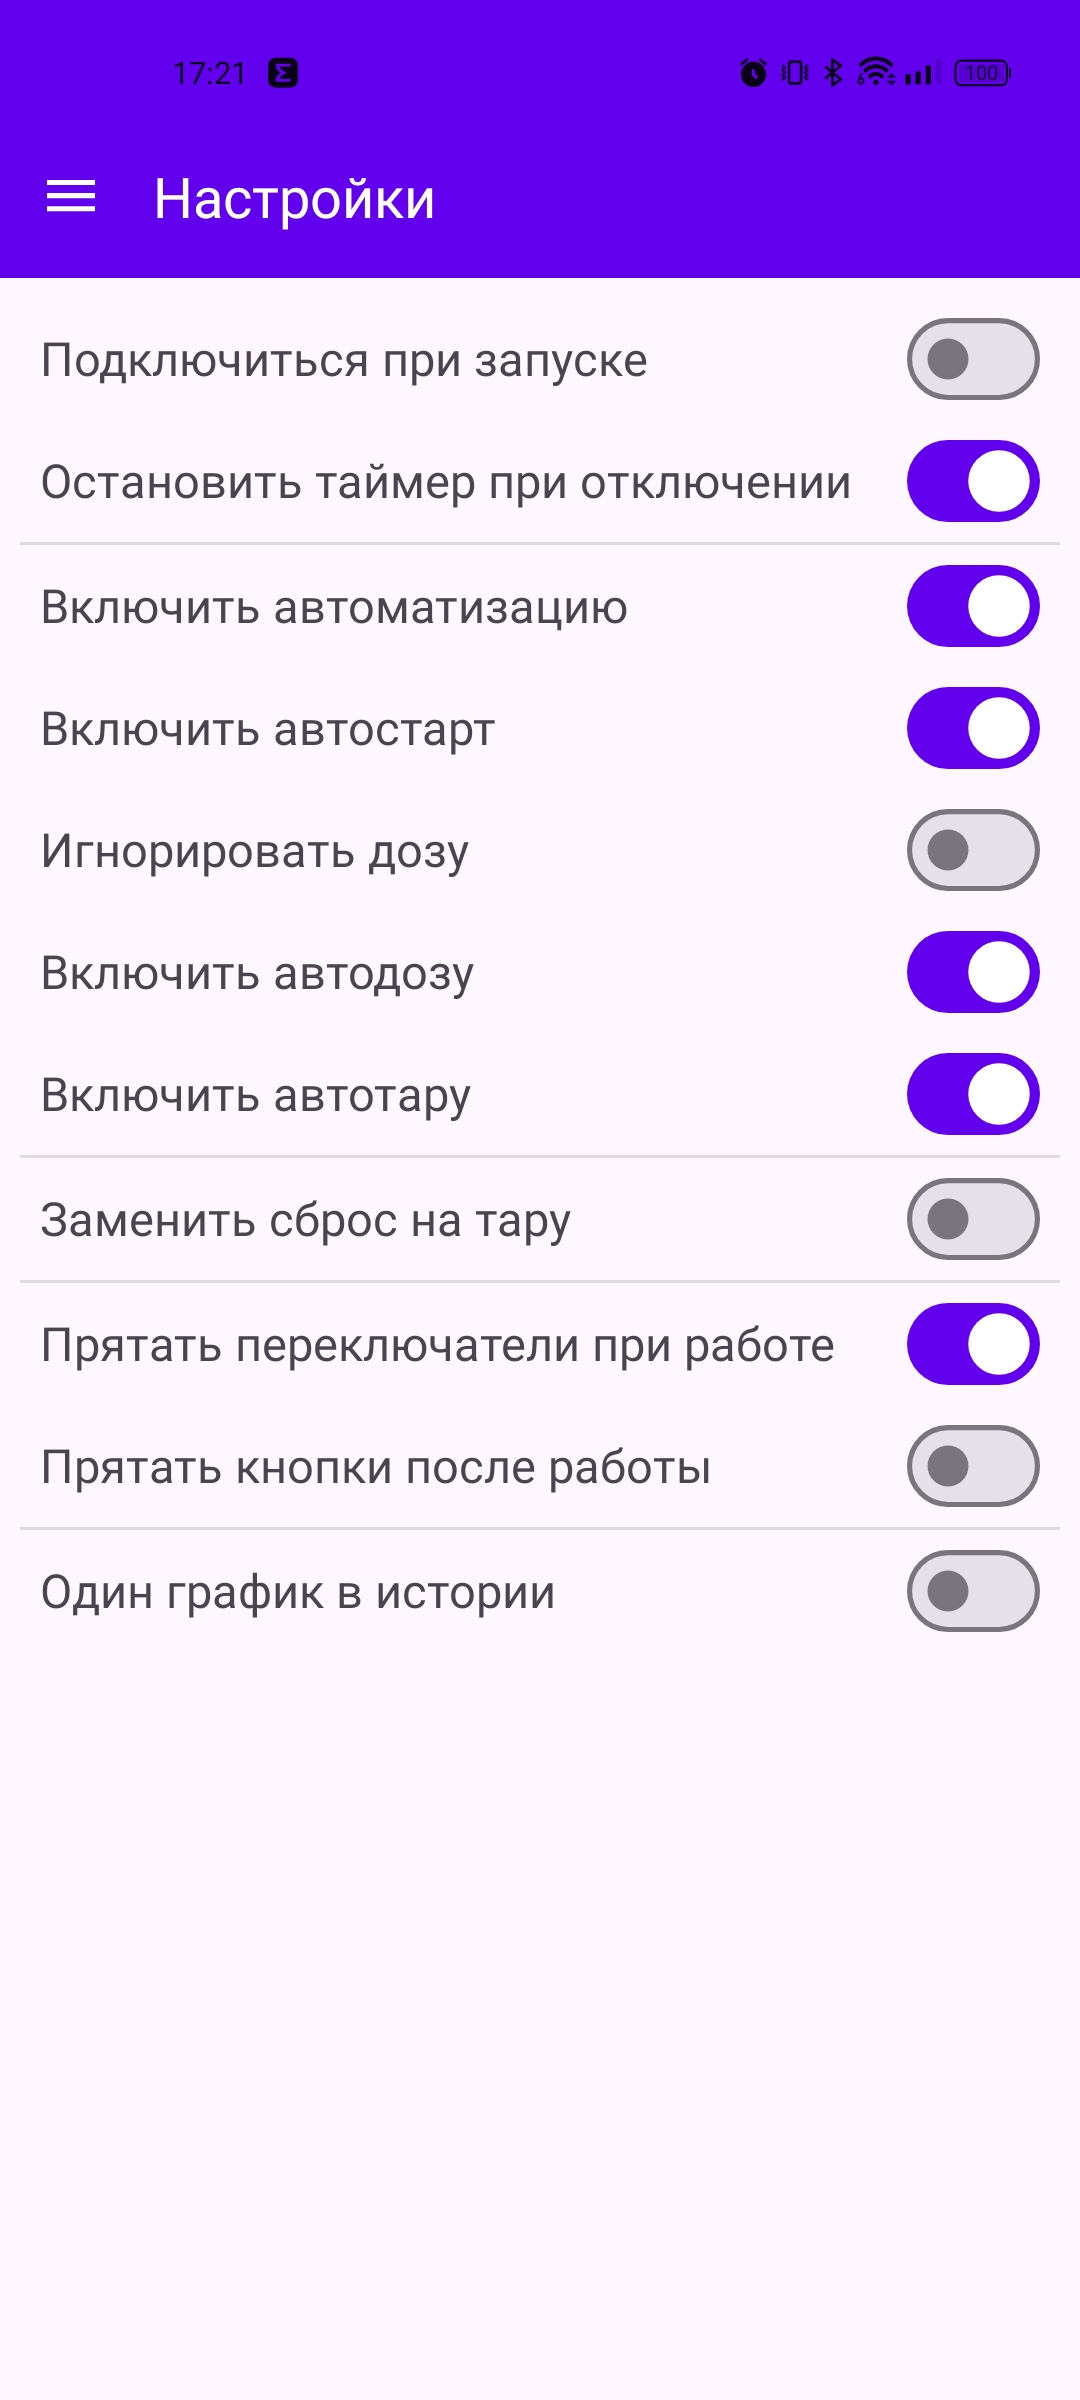
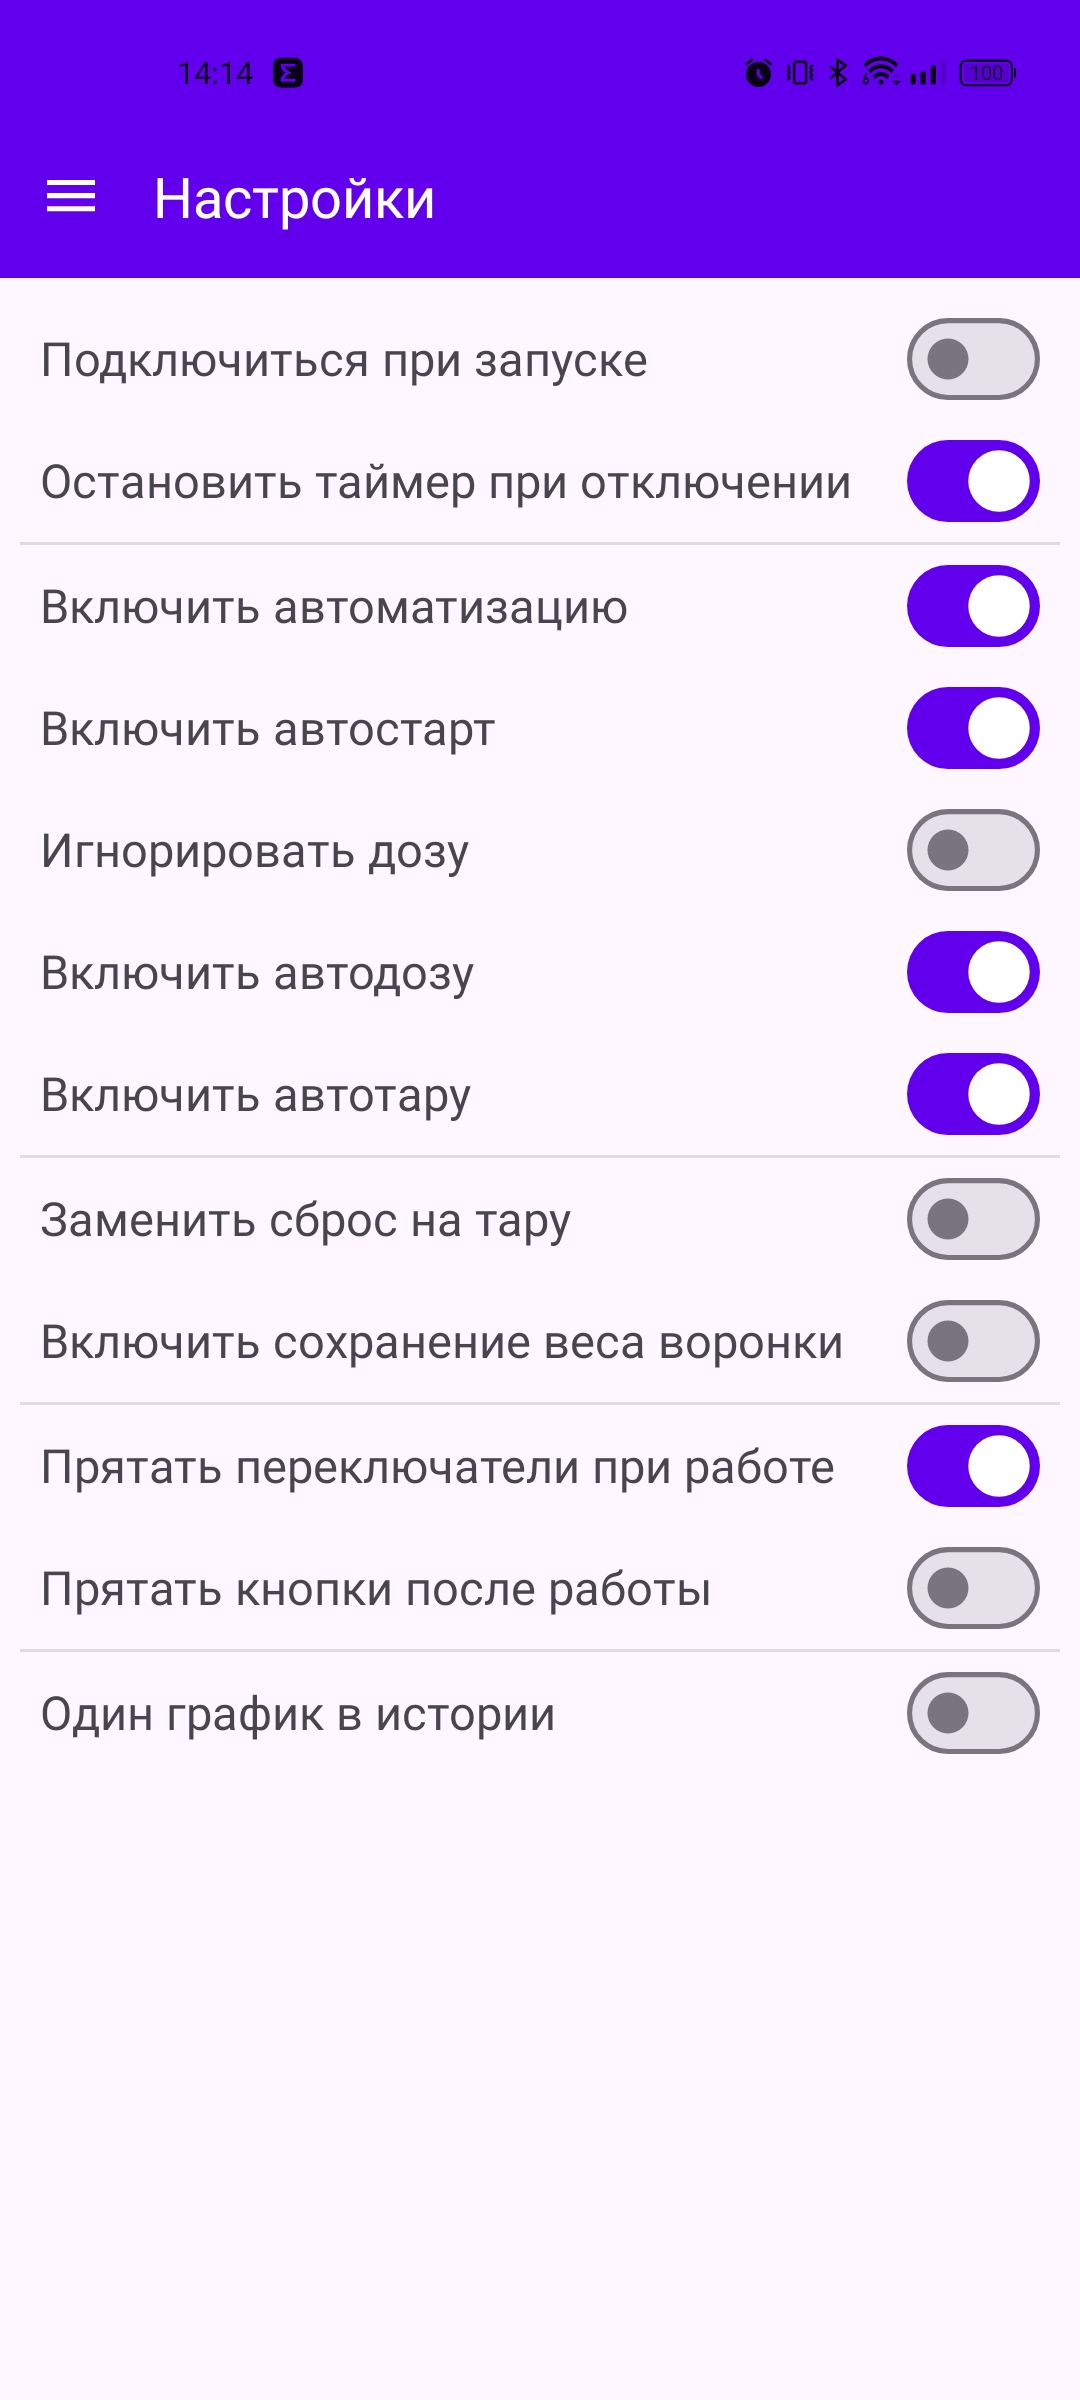
Добавил расчёт чистого веса напитка.

diff --git a/app/src/main/java/com/tomatishe/futulacoffeescale/ui/settings/SettingsFragment.kt b/app/src/main/java/com/tomatishe/futulacoffeescale/ui/settings/SettingsFragment.kt
@@ -17,6 +17,7 @@ import com.tomatishe.futulacoffeescale.coordinators.dataCoordinator.getAutoDose
 import com.tomatishe.futulacoffeescale.coordinators.dataCoordinator.getAutoStart
 import com.tomatishe.futulacoffeescale.coordinators.dataCoordinator.getAutoSwitches
 import com.tomatishe.futulacoffeescale.coordinators.dataCoordinator.getAutoTare
+import com.tomatishe.futulacoffeescale.coordinators.dataCoordinator.getEnableServerWeight
 import com.tomatishe.futulacoffeescale.coordinators.dataCoordinator.getIgnoreDose
 import com.tomatishe.futulacoffeescale.coordinators.dataCoordinator.getOneGraphInHistory
 import com.tomatishe.futulacoffeescale.coordinators.dataCoordinator.getReplaceResetWithTare
@@ -28,6 +29,7 @@ import com.tomatishe.futulacoffeescale.coordinators.dataCoordinator.updateAutoDo
 import com.tomatishe.futulacoffeescale.coordinators.dataCoordinator.updateAutoStart
 import com.tomatishe.futulacoffeescale.coordinators.dataCoordinator.updateAutoSwitches
 import com.tomatishe.futulacoffeescale.coordinators.dataCoordinator.updateAutoTare
+import com.tomatishe.futulacoffeescale.coordinators.dataCoordinator.updateEnableServerWeight
 import com.tomatishe.futulacoffeescale.coordinators.dataCoordinator.updateIgnoreDose
 import com.tomatishe.futulacoffeescale.coordinators.dataCoordinator.updateOneGraphInHistory
 import com.tomatishe.futulacoffeescale.coordinators.dataCoordinator.updateReplaceResetWithTare
@@ -62,6 +64,7 @@ class SettingsFragment : Fragment() {
     private lateinit var stopTimerWhenLostConnectionSwitch: MaterialSwitch
     private lateinit var startSearchAfterLaunchSwitch: MaterialSwitch
     private lateinit var showOneGraphInHistorySwitch: MaterialSwitch
+    private lateinit var enableServerWeightSwitch: MaterialSwitch
 
     private var _binding: FragmentSettingsBinding? = null
 
@@ -80,6 +83,7 @@ class SettingsFragment : Fragment() {
     private var stopTimerWhenLostConnectionChecked = true
     private var startSearchAfterLaunchChecked = false
     private var oneGraphInHistory = false
+    private var enableServerWeightChecked = false
 
     private var isSettingsLoaded = false
         set(value) {
@@ -101,6 +105,7 @@ class SettingsFragment : Fragment() {
                             stopTimerWhenLostConnectionChecked
                         startSearchAfterLaunchSwitch.isChecked = startSearchAfterLaunchChecked
                         showOneGraphInHistorySwitch.isChecked = oneGraphInHistory
+                        enableServerWeightSwitch.isChecked = enableServerWeightChecked
 
                         if (autoStartSettingsSwitch.isChecked) {
                             ignoreDoseLayout.visibility = View.VISIBLE
@@ -144,6 +149,7 @@ class SettingsFragment : Fragment() {
                     DataCoordinator.shared.getStopTimerWhenLostConnection()
                 startSearchAfterLaunchChecked = DataCoordinator.shared.getStartSearchAfterLaunch()
                 oneGraphInHistory = DataCoordinator.shared.getOneGraphInHistory()
+                enableServerWeightChecked = DataCoordinator.shared.getEnableServerWeight()
                 isSettingsLoaded = true
             }
         }
@@ -176,6 +182,7 @@ class SettingsFragment : Fragment() {
         stopTimerWhenLostConnectionSwitch = binding.stopTimerWhenLostConnectionSwitch
         startSearchAfterLaunchSwitch = binding.startSearchAfterLaunchSwitch
         showOneGraphInHistorySwitch = binding.showOneGraphInHistorySwitch
+        enableServerWeightSwitch = binding.enableServerWeightSwitch
 
         autoFuncSettingsSwitch.setOnClickListener {
             DataCoordinator.shared.updateAutoAll(autoFuncSettingsSwitch.isChecked)
@@ -251,6 +258,12 @@ class SettingsFragment : Fragment() {
         showOneGraphInHistorySwitch.setOnClickListener {
             DataCoordinator.shared.updateOneGraphInHistory(
                 showOneGraphInHistorySwitch.isChecked
+            )
+        }
+
+        enableServerWeightSwitch.setOnClickListener {
+            DataCoordinator.shared.updateEnableServerWeight(
+                enableServerWeightSwitch.isChecked
             )
         }
 

diff --git a/app/src/main/java/com/tomatishe/futulacoffeescale/ui/home/HomeFragment.kt b/app/src/main/java/com/tomatishe/futulacoffeescale/ui/home/HomeFragment.kt
@@ -22,6 +22,8 @@ import android.widget.FrameLayout
 import android.widget.TextView
 import androidx.appcompat.app.AlertDialog
 import androidx.constraintlayout.widget.ConstraintLayout
+import androidx.core.view.get
+import androidx.core.view.isVisible
 import androidx.core.view.updateLayoutParams
 import androidx.fragment.app.Fragment
 import androidx.lifecycle.ViewModelProvider
@@ -42,6 +44,7 @@ import com.tomatishe.futulacoffeescale.coordinators.dataCoordinator.getAutoDose
 import com.tomatishe.futulacoffeescale.coordinators.dataCoordinator.getAutoStart
 import com.tomatishe.futulacoffeescale.coordinators.dataCoordinator.getAutoSwitches
 import com.tomatishe.futulacoffeescale.coordinators.dataCoordinator.getAutoTare
+import com.tomatishe.futulacoffeescale.coordinators.dataCoordinator.getEnableServerWeight
 import com.tomatishe.futulacoffeescale.coordinators.dataCoordinator.getIgnoreDose
 import com.tomatishe.futulacoffeescale.coordinators.dataCoordinator.getReplaceResetWithTare
 import com.tomatishe.futulacoffeescale.coordinators.dataCoordinator.getStartSearchAfterLaunch
@@ -161,6 +164,7 @@ class HomeFragment : Fragment() {
     private var weightLogSecond = mutableListOf<Float>()
     private var weightLogGraphData =
         AASeriesElement().name("Weight").data(weightLogSecond.toTypedArray())
+    private var serverWeight: Float = 0.0F
     private var flowRate: Float = 0.0F
         set(value) {
             field = value
@@ -664,6 +668,7 @@ class HomeFragment : Fragment() {
                 startBleScan()
             }
         }
+    private var enableServerWeightChecked = false
 
     private var isSettingsLoaded = false
         set(value) {
@@ -847,10 +852,39 @@ class HomeFragment : Fragment() {
 
     override fun onCreateOptionsMenu(menu: Menu, inflater: MenuInflater) {
         inflater.inflate(R.menu.main, menu)
+        GlobalScope.launch {
+            enableServerWeightChecked = DataCoordinator.shared.getEnableServerWeight()
+            Handler(Looper.getMainLooper()).post {
+                menu.findItem(R.id.action_server).isVisible = enableServerWeightChecked
+            }
+        }
     }
 
     override fun onOptionsItemSelected(item: MenuItem): Boolean {
         return when (item.itemId) {
+            R.id.action_server -> {
+                if (serverWeight == 0.0F) {
+                    if (weightRecord > 0) {
+                        serverWeight = weightRecord
+                        Handler(Looper.getMainLooper()).post {
+                            item.setIcon(R.drawable.baseline_filter_alt_24)
+                        }
+                    }
+                } else {
+                    weightRecord += doseRecord + serverWeight
+                    isWeightLocked = true
+                    serverWeight = 0.0F
+                    if (weightRecord > 0 && doseRecord > 0) {
+                        val percentRatio = weightRecord / doseRecord
+                        brewRatioString = "1:${"%.1f".format(percentRatio)}"
+                    }
+                    Handler(Looper.getMainLooper()).post {
+                        item.setIcon(R.drawable.outline_filter_alt_24)
+                    }
+                }
+                true
+            }
+
             R.id.action_save -> {
                 GlobalScope.launch {
                     saveCurrentBrew()

diff --git a/app/src/main/java/com/tomatishe/futulacoffeescale/coordinators/dataCoordinator/DataCoordinator.kt b/app/src/main/java/com/tomatishe/futulacoffeescale/coordinators/dataCoordinator/DataCoordinator.kt
@@ -38,6 +38,8 @@ class DataCoordinator {
     val defaultStartSearchAfterLaunch: Boolean = false
     var oneGraphInHistory: Boolean = false
     val defaultOneGraphInHistory: Boolean = false
+    var enableServerWeight: Boolean = false
+    val defaultEnableServerWeight: Boolean = false
 
     // MARK: Data Store Variables
     private val USER_PREFERENCES_NAME = "fCoffeeScapePreferences"
@@ -63,6 +65,7 @@ class DataCoordinator {
             stopTimerWhenLostConnection = getStopTimerWhenLostConnection()
             startSearchAfterLaunch = getStartSearchAfterLaunch()
             oneGraphInHistory = getOneGraphInHistory()
+            enableServerWeight = getEnableServerWeight()
             // Callback
             onLoad()
         }

diff --git a/app/src/main/java/com/tomatishe/futulacoffeescale/coordinators/dataCoordinator/DataCoordinator+DataStore.kt b/app/src/main/java/com/tomatishe/futulacoffeescale/coordinators/dataCoordinator/DataCoordinator+DataStore.kt
@@ -166,3 +166,18 @@ suspend fun DataCoordinator.setOneGraphInHistory(value: Boolean) {
         preferences[PreferencesKeys.oneGraphInHistory] = value
     }
 }
+
+// ---
+
+suspend fun DataCoordinator.getEnableServerWeight(): Boolean {
+    val context = this.context ?: return defaultEnableServerWeight
+    return context.dataStore.data.firstOrNull()?.get(PreferencesKeys.enableServerWeight)
+        ?: defaultEnableServerWeight
+}
+
+suspend fun DataCoordinator.setEnableServerWeight(value: Boolean) {
+    val context = this.context ?: return
+    context.dataStore.edit { preferences ->
+        preferences[PreferencesKeys.enableServerWeight] = value
+    }
+}

diff --git a/app/src/main/java/com/tomatishe/futulacoffeescale/coordinators/dataCoordinator/DataCoordinator+Update.kt b/app/src/main/java/com/tomatishe/futulacoffeescale/coordinators/dataCoordinator/DataCoordinator+Update.kt
@@ -125,3 +125,14 @@ fun DataCoordinator.updateOneGraphInHistory(value: Boolean) {
         // OPTIONAL - Send Broadcast
     }
 }
+
+fun DataCoordinator.updateEnableServerWeight(value: Boolean) {
+    // Update Value
+    this.enableServerWeight = value
+    // Save to System
+    GlobalScope.launch(Dispatchers.Default) {
+        // Update DataStore
+        setEnableServerWeight(value)
+        // OPTIONAL - Send Broadcast
+    }
+}

diff --git a/app/src/main/java/com/tomatishe/futulacoffeescale/models/keys/PreferenceKeys.kt b/app/src/main/java/com/tomatishe/futulacoffeescale/models/keys/PreferenceKeys.kt
@@ -14,4 +14,5 @@ object PreferencesKeys {
     val stopTimerWhenLostConnection = booleanPreferencesKey("stopTimerWhenLostConnection")
     val startSearchAfterLaunch = booleanPreferencesKey("startSearchAfterLaunch")
     val oneGraphInHistory = booleanPreferencesKey("oneGraphInHistory")
+    val enableServerWeight = booleanPreferencesKey("enableServerWeight")
 }

diff --git a/README.md b/README.md
@@ -21,6 +21,7 @@
 - Можно ввести дозу вручную двойным нажатием на дозу;
 - Можно воспользоваться автоматизацией при готовке;
 - Можно переключаться между мгновенным и средним значением скорости пролива нажатием на значение;
+- Можно включить расчёт чистого веса напитка;
 - Можно добавлять заметки к истории завариваний.
 
 ## Справка
@@ -40,6 +41,7 @@
 
 Сверху расположены кнопки:
 - Открытие меню; (слева)
+- Вес воронки; (опционально)
 - Сброс; (сбросить все значения на экране)
 - Сохранение значений в историю.
 
@@ -65,6 +67,12 @@
 - Если нажать на Дозу дважды, то можно ввести значение дозы вручную. Работает до и во время готовки;
 - Если нажать на Вес, то можно зафиксировать его - при изменении значений на весах значение в приложении не будет меняться;
 - Если нажать на Скорость пролива, то можно переключить значение на Среднюю скорость и наоборот.
+
+#### Расчёт чистого веса напитка
+
+Для расчёта чистого веса при приготовлении пуровера неоходимо включить "Включить сохранение веса воронки" в настройках, после чего на главном экране появится значок воронки.
+Если положить на весы саму воронку и нажать на значок, то вес воронки запишется и значок сменится на залитый.
+После приготовления напитка нужно будет снять воронку вместе с фильтром и кофе с весов и нажать на значок заполненной воронки, после чего в значение веса запишется чистый вес напитка и значение зафиксируется.
 
 ### История
 
@@ -111,6 +119,7 @@
   - Включить автодозу - включить автоматическую запись дозы при изменении веса;
   - Включить автотару - включить автоматическое тарирование при изменении веса;
 - Заменить сброс на тару - изменить поведение кнопки сброса так, чтобы она работала как кнопка тары;
+- Включить сохранение веса воронки - добавить кнопку сохранения веса воронки для расчёта чистого веса напитка;
 - Прятать переключатели при работе - при включении таймера будет прятать переключатели автоматизации;
 - Прятать кнопки после работы - при завершении заваривания будет прятать нижние кнопки. Увеличивает площадь графиков;
 - Один график в истории - будет показывать объединённый график скорости пролива и веса вместо двух графиков при просмотре в истории.
